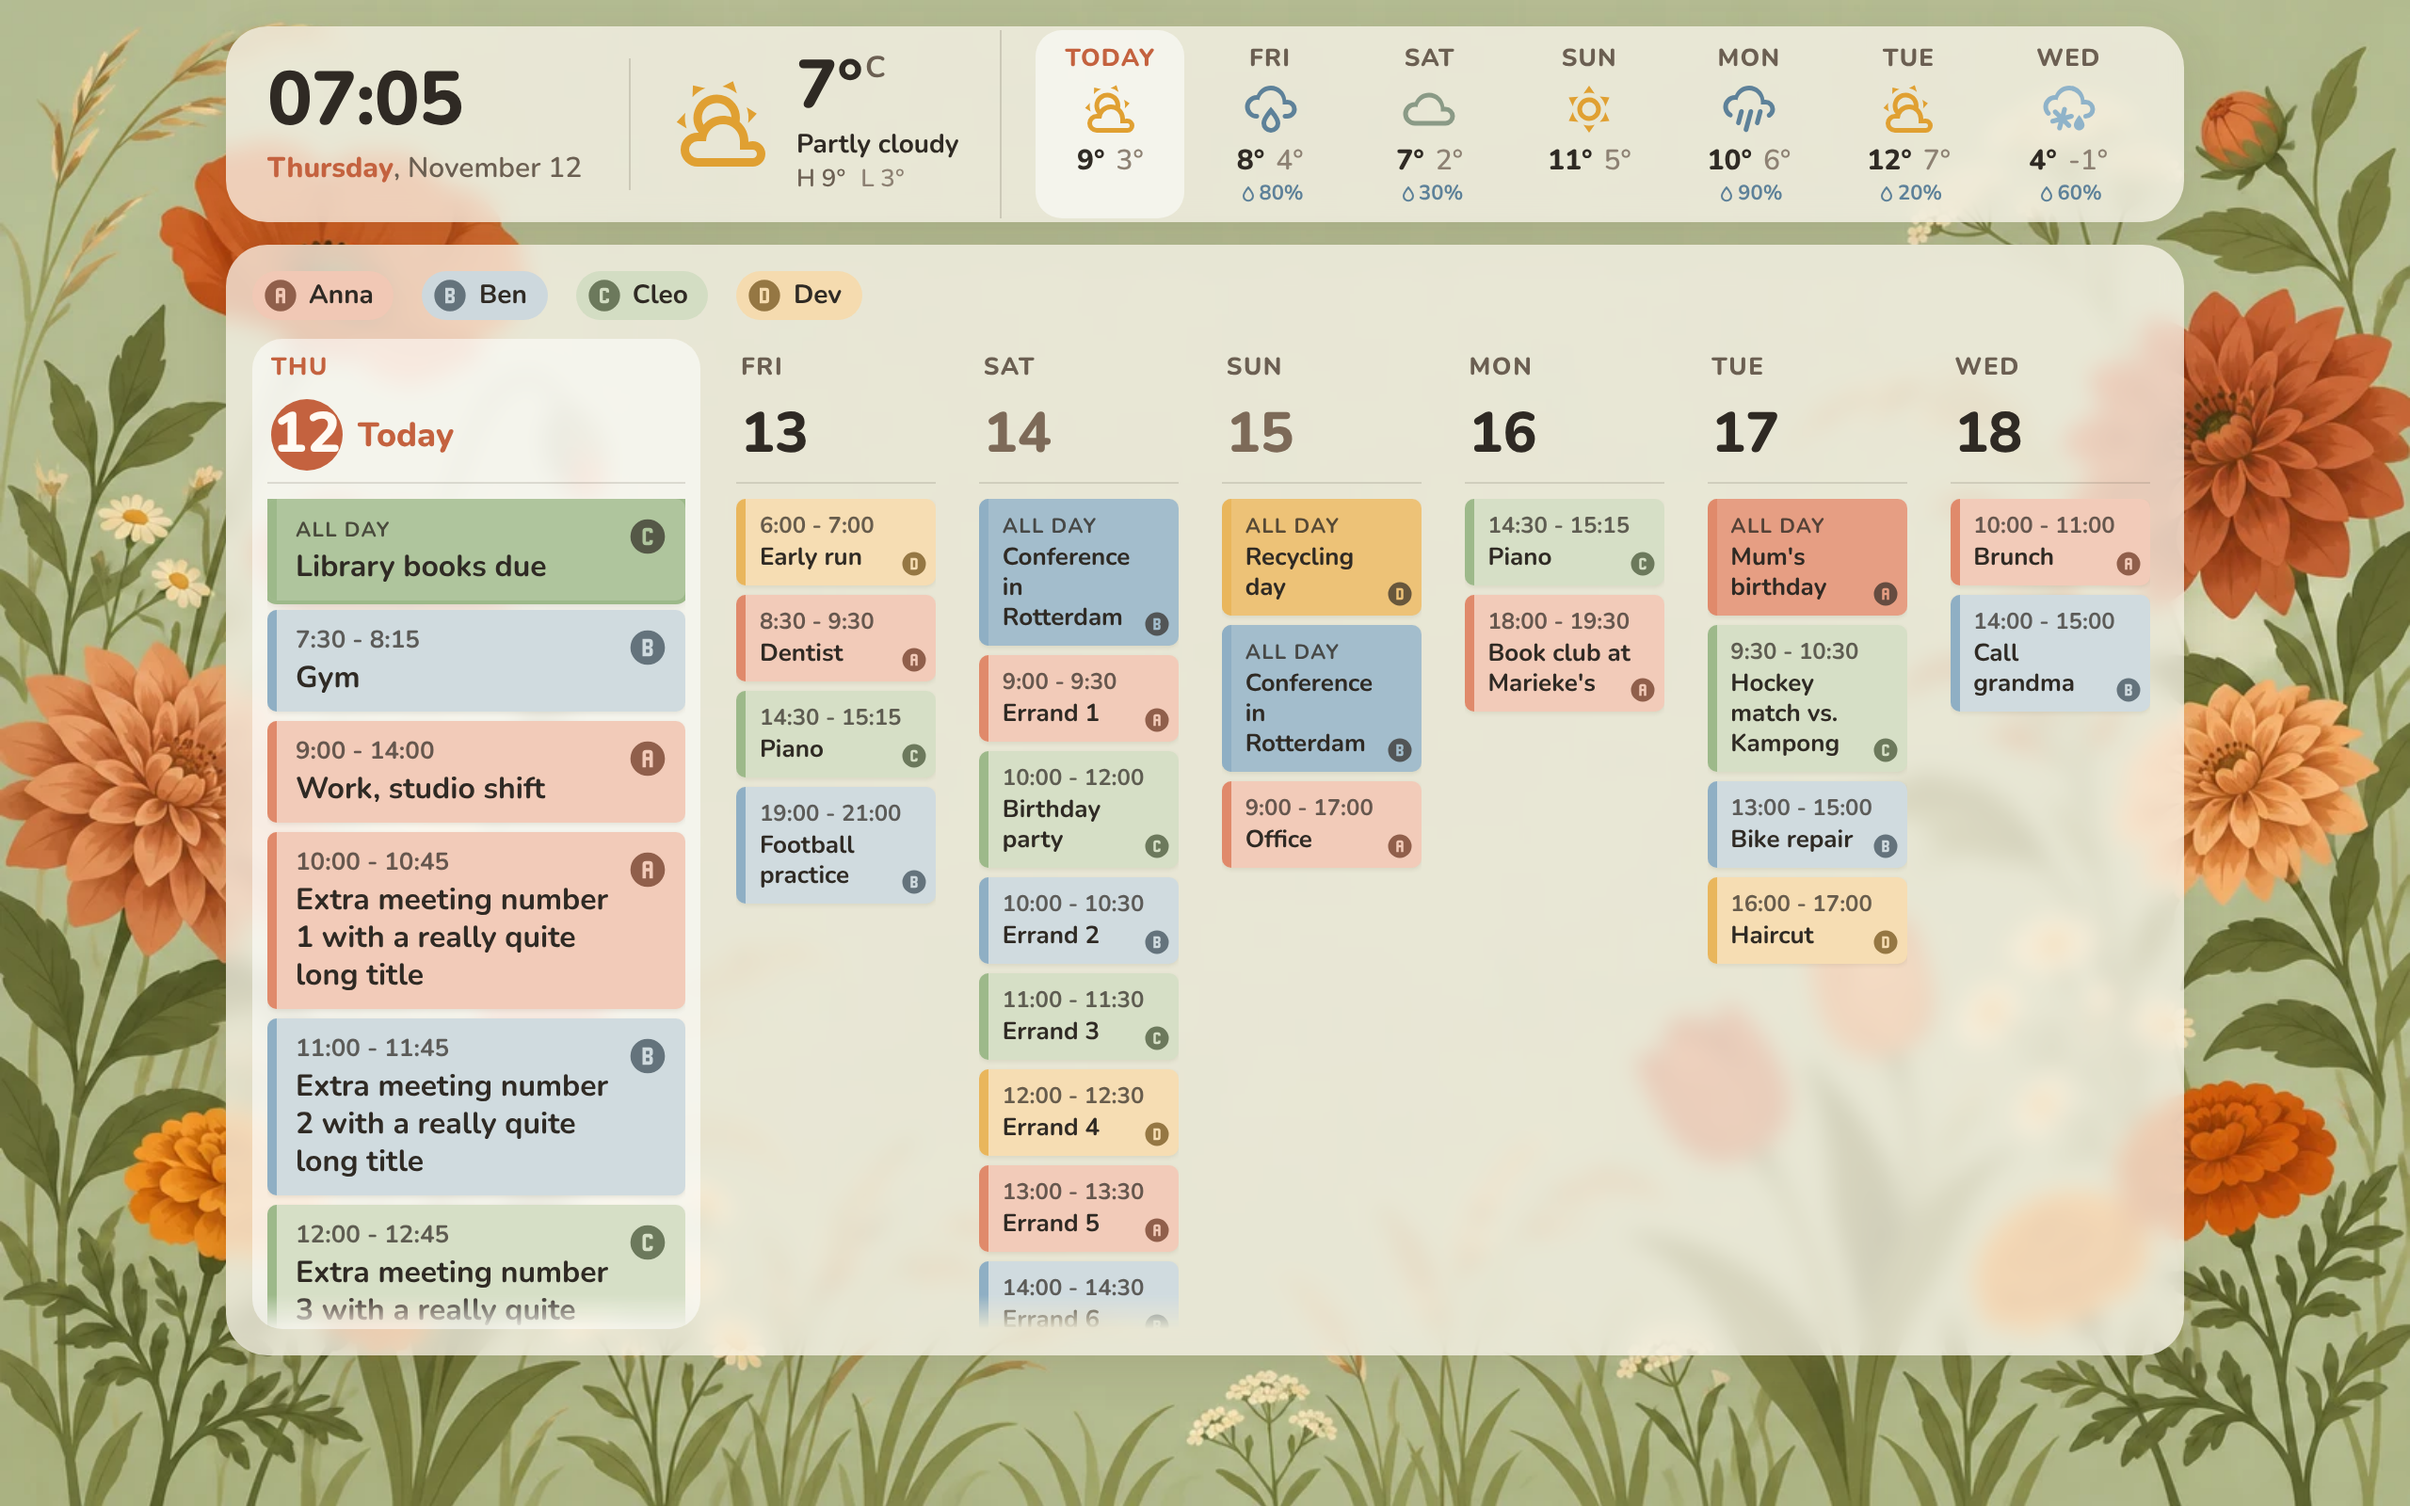
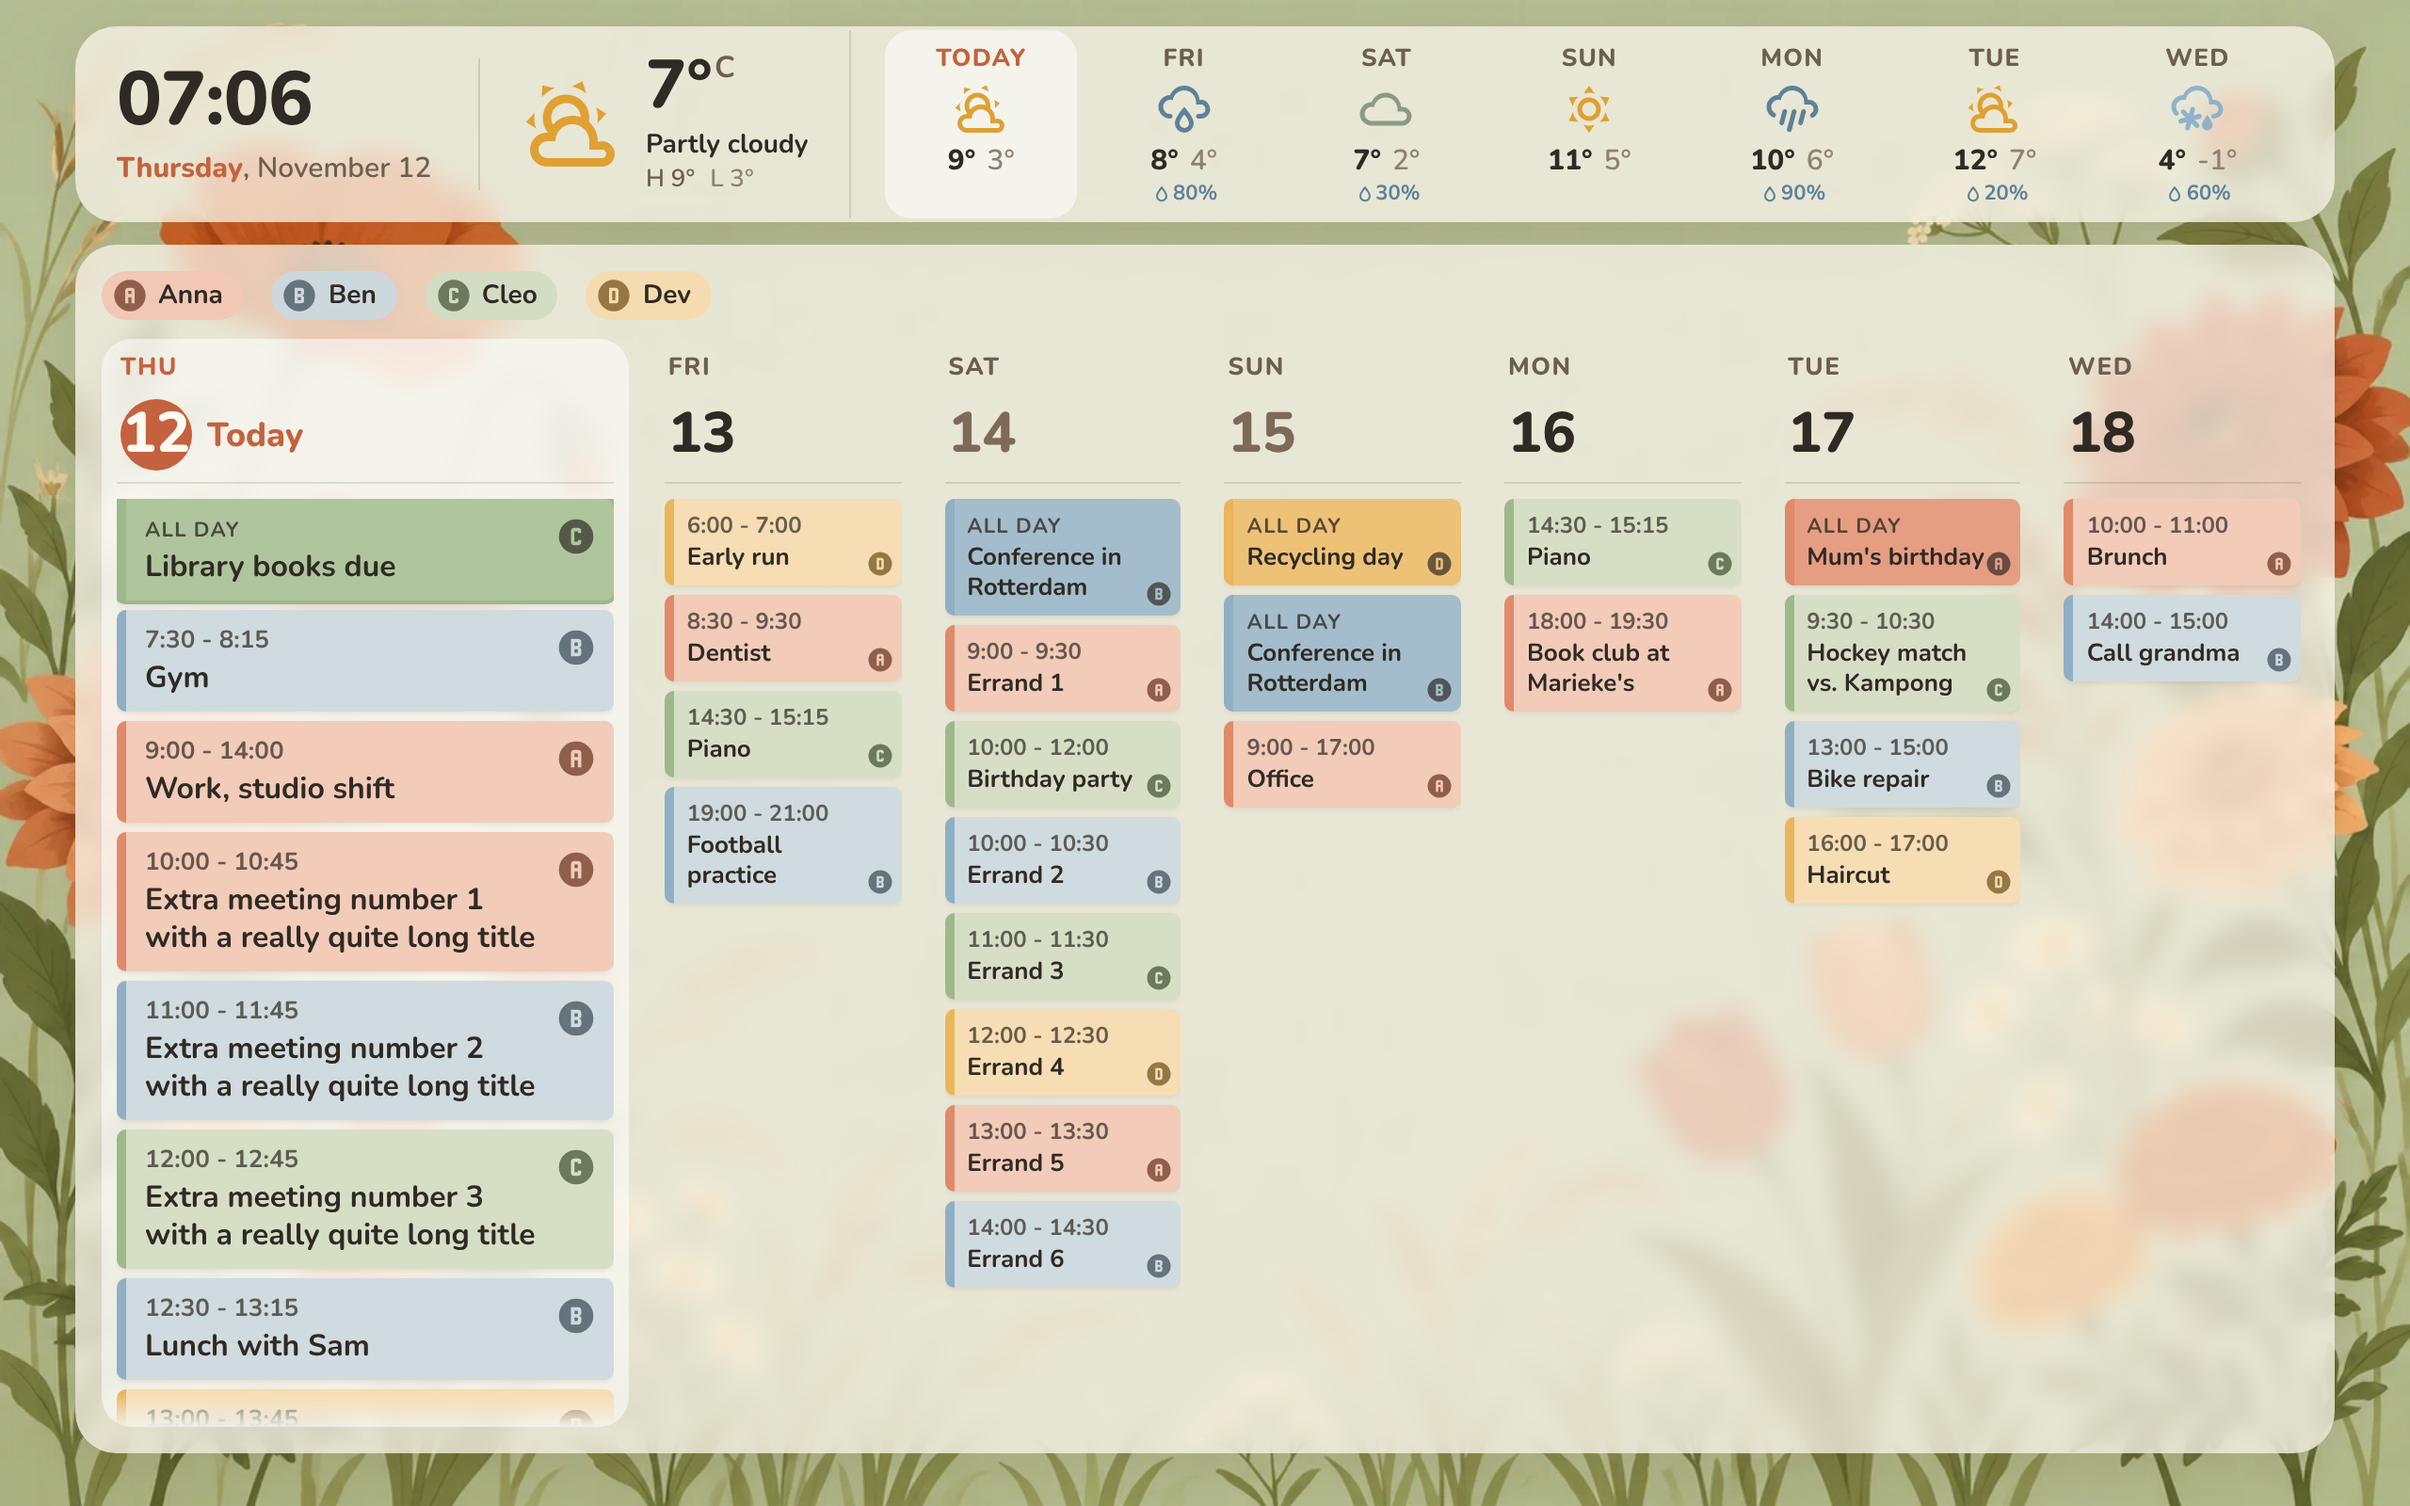
Widen the frosted calendar panels to prioritize content
Side insets 120px -> 40px and bottom margin 80px -> 28px, giving the
calendar 1200x642 instead of 1040x590 at 1280x800.

Claude-Session: https://claude.ai/code/session_01J5CYv1mnqoU7uj3VKJC9mP

diff --git a/dashboard/www/skylight/skylight-weather-strip.js b/dashboard/www/skylight/skylight-weather-strip.js
@@ -274,7 +274,7 @@ class SkylightWeatherStrip extends HTMLElement {
       .strip {
         box-sizing: border-box;
         height: var(--skylight-strip-height, 104px);
-        margin: var(--skylight-strip-margin, 14px 120px 12px);
+        margin: var(--skylight-strip-margin, 14px 40px 12px);
         padding: 0 22px;
         display: flex;
         align-items: center;

diff --git a/dashboard/README.md b/dashboard/README.md
@@ -87,8 +87,8 @@ Pills use a light tint of the person's color with a solid color edge. All-day ev
   - The `days` option sets how many forecast tiles are shown.
 - **Fully local**: icons are HA's built-in MDI icons, and the font is served from `/local/`. Nothing loads from the internet.
 - **Sizing**:
-  - The theme sets the vertical layout: 14px gap, 104px strip, 12px gap, the calendar panel, then 80px of flowers at the bottom.
-  - Both panels sit 120px in from the left and right edges.
+  - The theme sets the vertical layout: 14px gap, 104px strip, 12px gap, the calendar panel, then 28px of flowers at the bottom.
+  - Both panels sit 40px in from the left and right edges, so the calendar gets most of the screen and the flowers frame it at the edges.
   - To resize, adjust `skylight-strip-*` / `skylight-panel-*` in the theme.
 
 ## How it's built and what can break on updates
